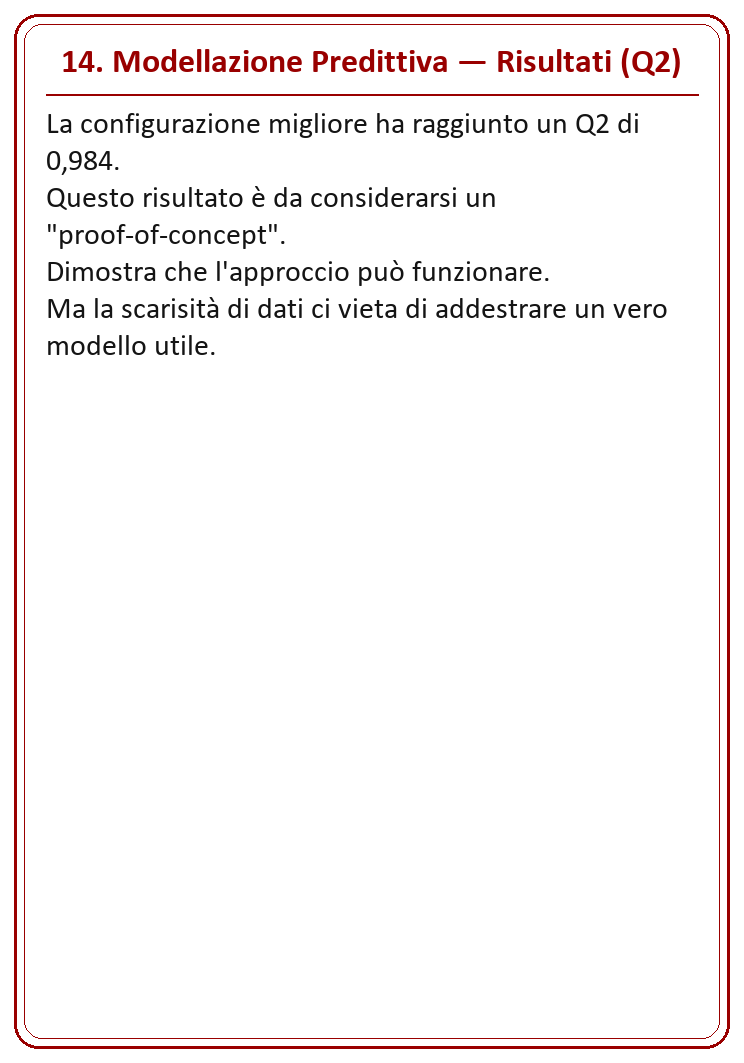
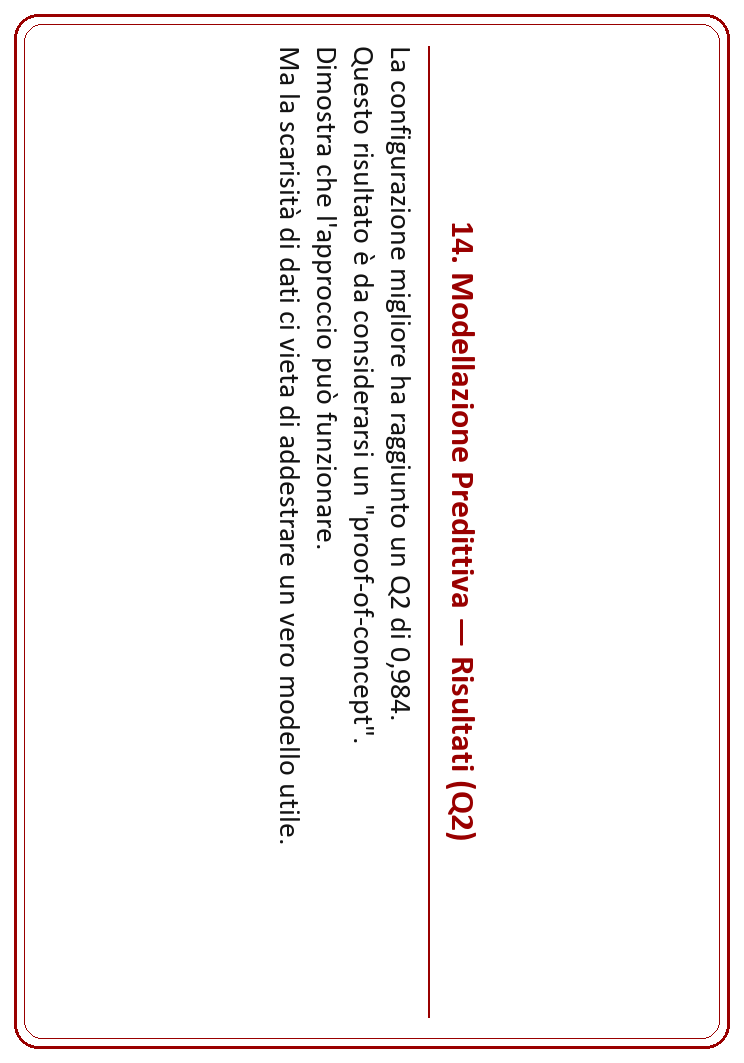
Hand notes: rotate back text to match front, center it vertically
Backs are drawn on a landscape canvas then rotated 270 like the fronts,
so both read in the same held orientation; the title+speech block is
vertically centered, speech left-aligned.

Claude-Session: https://claude.ai/code/session_01AnRzoBbdWXCuuTcy9gaeCs

Changed region(s): [[0.0618, 0.031, 0.9274, 0.8071]]

diff --git a/create_slides/src/create_slides/scripts/create_mtg_handnotes.py b/create_slides/src/create_slides/scripts/create_mtg_handnotes.py
@@ -105,38 +105,46 @@ def wrap_text(draw: ImageDraw.ImageDraw, text: str, font, max_w: int) -> list[st
 
 
 def build_back(number: int, title: str, speech: str, out_path: Path) -> None:
-    card = Image.new("RGB", (CARD_W, CARD_H), "white")
+    # Draw on a landscape canvas, then rotate so the back reads in the same held
+    # orientation as the (rotated) front slide.
+    canvas_w, canvas_h = CARD_H, CARD_W
+    card = Image.new("RGB", (canvas_w, canvas_h), "white")
     draw = ImageDraw.Draw(card)
     # Thin double outline, kept close to the edge so it stays discreet.
-    draw.rounded_rectangle([14, 14, CARD_W - 15, CARD_H - 15], radius=24,
+    draw.rounded_rectangle([14, 14, canvas_w - 15, canvas_h - 15], radius=24,
                            outline=UNISI_RED, width=3)
-    draw.rounded_rectangle([24, 24, CARD_W - 25, CARD_H - 25], radius=18,
+    draw.rounded_rectangle([24, 24, canvas_w - 25, canvas_h - 25], radius=18,
                            outline=UNISI_RED, width=1)
 
     pad = 46
-    max_w = CARD_W - 2 * pad
+    max_w = canvas_w - 2 * pad
     title_font = ImageFont.truetype(str(FONTS / "calibrib.ttf"), 34)
     title_lines = wrap_text(draw, f"{number}. {title}", title_font, max_w)
-    y = pad
-    for line in title_lines:
-        draw.text((CARD_W / 2, y), line, font=title_font, fill=UNISI_RED, anchor="ma")
-        y += 40
-    y += 8
-    draw.line([pad, y, CARD_W - pad, y], fill=UNISI_RED, width=2)
-    y += 16
+    title_h = 40 * len(title_lines) + 8
+    divider_gap = 16
 
-    # Auto-shrink the speech font until everything fits above the bottom border.
+    # Auto-shrink the speech font until the whole block fits between the borders.
     for size in range(30, 13, -1):
         body_font = ImageFont.truetype(str(FONTS / "calibri.ttf"), size)
         line_h = round(size * 1.22)
         lines = wrap_text(draw, speech, body_font, max_w)
-        if y + line_h * len(lines) <= CARD_H - pad:
+        total_h = title_h + divider_gap + line_h * len(lines)
+        if total_h <= canvas_h - 2 * pad:
             break
-    ty = y
+
+    # Vertically center the whole block (title + divider + speech).
+    y = max(pad, (canvas_h - total_h) // 2)
+    for line in title_lines:
+        draw.text((canvas_w / 2, y), line, font=title_font, fill=UNISI_RED, anchor="ma")
+        y += 40
+    y += 8
+    draw.line([pad, y, canvas_w - pad, y], fill=UNISI_RED, width=2)
+    y += divider_gap
     for line in lines:
-        draw.text((pad, ty), line, font=body_font, fill=(20, 20, 20))
-        ty += line_h
-    card.save(out_path, dpi=(DPI, DPI))
+        draw.text((pad, y), line, font=body_font, fill=(20, 20, 20))
+        y += line_h
+
+    card.rotate(270, expand=True).save(out_path, dpi=(DPI, DPI))
 
 
 def build_sheets(cards: list[Path], stem: str) -> None:
